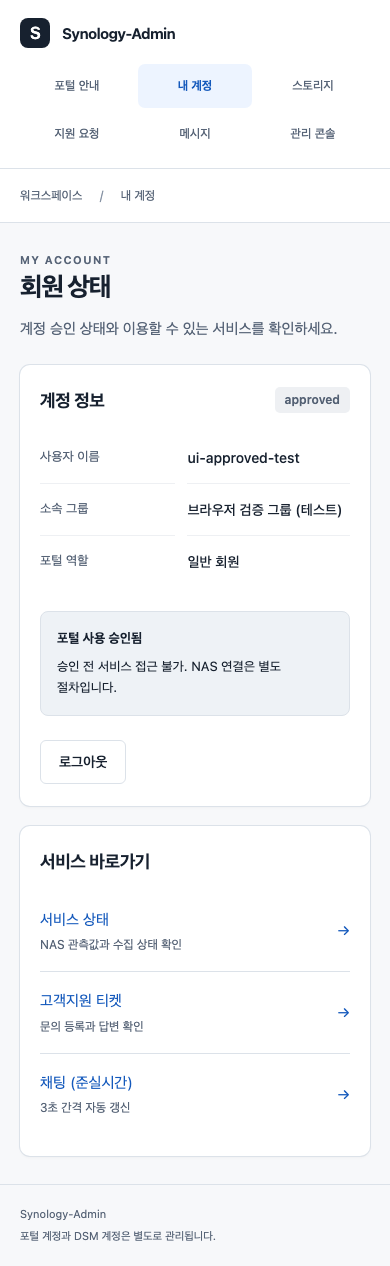
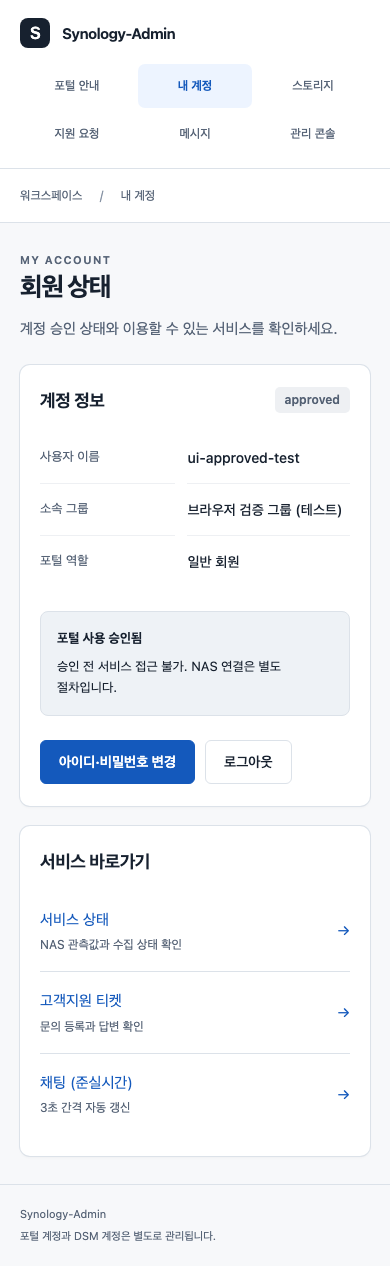
feat(ui): integrate merged account settings and credential browser flow

Changed region(s): [[0.0923, 0.5853, 0.5231, 0.6469], [0.5846, 0.5853, 0.7077, 0.6161]]

diff --git a/templates/membership/account.html b/templates/membership/account.html
@@ -7,6 +7,6 @@
 <div class="split"><section class="panel"><div class="panel-header"><h2>계정 정보</h2><span class="badge neutral">{% if member %}{{ member.status }}{% else %}회원 정보 없음{% endif %}</span></div>
 <dl class="data-list"><dt>사용자 이름</dt><dd>{{ member.user.username|default:'회원 정보 없음' }}</dd><dt>소속 그룹</dt><dd>{{ member.tenant.name|default:'미배정' }}</dd><dt>포털 역할</dt><dd>{% if member.role == 'admin' %}그룹관리자{% elif member %}일반 회원{% else %}회원 정보 없음{% endif %}</dd></dl>
 <div class="notice"><strong>{% if member.status == 'approved' %}포털 사용 승인됨{% elif member.status == 'pending' %}관리자 승인 대기 중{% else %}계정 상태를 확인하세요{% endif %}</strong><p>승인 전 서비스 접근 불가. NAS 연결은 별도 절차입니다.</p></div>
-<form method="post" action="/logout/">{% csrf_token %}<button class="secondary">로그아웃</button></form></section>
+<div class="actions"><a class="button" href="/account/settings/">아이디·비밀번호 변경</a><form method="post" action="/logout/">{% csrf_token %}<button class="secondary">로그아웃</button></form></div></section>
 <section class="panel"><h2>서비스 바로가기</h2><ul class="link-list"><li><a href="/service/"><span>서비스 상태<small>NAS 관측값과 수집 상태 확인</small></span><span aria-hidden="true">→</span></a></li><li><a href="/support/"><span>고객지원 티켓<small>문의 등록과 답변 확인</small></span><span aria-hidden="true">→</span></a></li><li><a href="/chat/"><span>채팅 (준실시간)<small>3초 간격 자동 갱신</small></span><span aria-hidden="true">→</span></a></li></ul></section></div>
 {% endblock %}

diff --git a/templates/membership/settings.html b/templates/membership/settings.html
@@ -1,1 +1,12 @@
-<!doctype html><html lang="ko"><head><meta charset="utf-8"><title>계정 설정</title></head><body><main><h1>아이디·비밀번호 변경</h1><p>변경하면 다른 기기의 로그인이 해제됩니다.</p><form method="post">{% csrf_token %}{{ form.as_p }}<button type="submit">변경 저장</button></form><a href="/account/">내 계정</a></main></body></html>
+{% extends "base.html" %}
+{% load i18n %}
+{% block title %}계정 설정{% endblock %}
+{% block nav_account %}aria-current="page"{% endblock %}
+{% block breadcrumb %}내 계정 / 설정{% endblock %}
+{% block content_class %}auth-layout{% endblock %}
+{% block content %}
+<div class="page-heading"><p class="eyebrow">ACCOUNT SETTINGS</p><h1>아이디·비밀번호 변경</h1><p>계정 정보를 변경하려면 현재 포털 비밀번호를 확인하세요.</p></div>
+<div class="notice"><strong>다른 기기의 로그인 해제</strong><p>변경하면 다른 기기의 로그인이 해제됩니다. DSM 계정 정보는 변경되지 않습니다.</p></div>
+<section class="panel auth-panel"><form method="post">{% csrf_token %}{% language "ko" %}{{ form.as_p }}{% endlanguage %}<div class="actions"><button type="submit">변경 저장</button><a class="button secondary" href="/account/">내 계정</a></div></form></section>
+<p class="supporting-text">아이디만 변경하려면 새 비밀번호 항목을 비워 두세요. 초기 관리자 계정은 새 비밀번호 설정이 필요합니다.</p>
+{% endblock %}

diff --git a/browser_tests/portal_ui.py b/browser_tests/portal_ui.py
@@ -74,6 +74,8 @@ class PortalUIBrowserTests(LiveServerTestCase):
                     'chat-empty': '/chat/', 'chat-list': '/chat/',
                     'mfa-enroll': '/mfa/enroll/', 'mfa-verify': '/mfa/enroll/',
                     'manage': '/manage/', 'mfa-challenge': '/mfa/verify/',
+                    'settings': '/account/settings/', 'settings-error': '/account/settings/',
+                    'settings-saved': '/account/settings/',
                 }
                 if name in expected_paths:
                     self.assertEqual(urlparse(page.url).path, expected_paths[name], name)
@@ -123,6 +125,26 @@ class PortalUIBrowserTests(LiveServerTestCase):
             page.locator('main button[type=submit]').click()
             page.wait_for_url('**/account/')
             capture('account-approved')
+            settings_link = page.get_by_role('link', name='아이디·비밀번호 변경', exact=True)
+            expect(settings_link).to_be_visible()
+            settings_link.click()
+            capture('settings')
+            page.locator('[name=username]').fill('ui-renamed-test')
+            page.locator('[name=new_password1]').fill('UI-replacement-test-only-839!')
+            page.locator('[name=new_password2]').fill('UI-mismatch-test-only-839!')
+            page.get_by_label('현재 비밀번호').fill(password)
+            page.get_by_role('button', name='변경 저장').click()
+            expect(page.locator('.errorlist')).to_contain_text('일치하지 않습니다')
+            capture('settings-error')
+            page.locator('[name=new_password1]').fill('UI-replacement-test-only-839!')
+            page.locator('[name=new_password2]').fill('UI-replacement-test-only-839!')
+            page.get_by_label('현재 비밀번호').fill(password)
+            with page.expect_navigation():
+                page.get_by_role('button', name='변경 저장').click()
+            expect(page.locator('[name=username]')).to_have_value('ui-renamed-test')
+            self.assertTrue(db_call(lambda: User.objects.get(pk=approved.pk).check_password('UI-replacement-test-only-839!')))
+            self.assertEqual(db_call(lambda: User.objects.get(pk=approved.pk).username), 'ui-renamed-test')
+            capture('settings-saved')
             page.goto(self.live_server_url + '/service/')
             capture('service')
             expect(page.locator('[data-usage=account] dd')).to_have_text(['알 수 없음', '알 수 없음', '알 수 없음', '설정 안 됨', '관측 없음', '출처 없음'])

diff --git a/docs/portal-ui.md b/docs/portal-ui.md
@@ -2,7 +2,7 @@
 
 ## 구현 범위
 
-- 기존 11개 페이지 템플릿을 실제 Django 공통 레이아웃으로 전환했다. 로그인과 가입은 같은 폼 템플릿을 사용한다.
+- 기존 11개 페이지와 PR #14의 계정 설정을 포함한 12개 페이지 템플릿을 실제 Django 공통 레이아웃으로 전환했다. 로그인과 가입은 같은 폼 템플릿을 사용한다.
 - 랜딩, 로그인/가입, 회원 상태, 스토리지, 회원/그룹 관리, OTP 등록/검증, 지원 목록/작성/상세, 채팅 목록/상세를 포함한다.
 - 주요 구성은 작업 중심 **Operate** 화면이다. Vercel 참조의 중립색·정밀한 간격 원칙만 차용하고, 자체 사이드바/헤더/작업 패널을 구성했다. 검증되지 않은 통계, 온라인 상태, 읽음 여부, NAS 관측값을 만들지 않는다.
 - 데스크톱 사이드바는 모바일에서 항상 보이는 2행 메뉴가 된다. 메뉴 토글 JavaScript가 필요 없다. 시스템 한글 글꼴을 의도적으로 사용하여 외부 폰트 요청을 없앴다.
@@ -12,13 +12,13 @@
 
 이 저장소는 `django.contrib.staticfiles` 또는 정적 파일 서버를 설정하지 않는다. 따라서 새 정적 URL을 가정하지 않고 `templates/ui/portal.css`를 `base.html`의 `<style>`에 템플릿 include한다. CSS는 저장소 안의 공통 자산이며 최종 HTML에 포함된다. 폰트/CDN/추적기/외부 이미지 요청이 없다. 기존 채팅 JS는 바이트 단위로 동일하고, 공통 레이아웃의 `scripts` 블록으로 이동했을 뿐이다.
 
-`Dockerfile`, Compose, Gunicorn 설정, LAN 바인딩, 모델/뷰/권한 코드는 변경하지 않았다. PR #13의 main `c0dc45af74b4c23a1e7190b095ff9ece94863a42`를 작업 브랜치에 통합했다. 원격 운영 서버에는 배포하지 않았다.
+`Dockerfile`, Compose, Gunicorn 설정, LAN 바인딩, 모델/뷰/권한 코드는 변경하지 않았다. PR #13의 main `c0dc45af74b4c23a1e7190b095ff9ece94863a42`와 PR #14의 `3dec8f0c60aa41234f3dbe3108f4e96b53aa0ede`를 작업 브랜치에 통합했다. 원격 운영 서버에는 배포하지 않았다.
 
 `.github/workflows/portal-ui.yml`은 기존 Dockerfile을 빌드한 뒤, 격리된 CI SQLite 테스트 볼륨과 루프백 포트에서 공개 3개 화면의 **실제 Chromium 계산 스타일**을 검증한다. 이는 운영 SQLite 승인이 아니다. 기존 PostgreSQL CI에는 인증된 전체 UI 시나리오를 추가했다. 컨테이너 배포 워크플로/Compose는 수정하지 않았다.
 
 ## 다른 계정 화면과의 통합 계약
 
-새 프로필/자격증명 화면은 다음 공통 인터페이스를 사용한다. 추가 엔드포인트를 이 PR에서 임의로 만들지 않았다.
+PR #14의 `/account/settings/` 화면을 같은 레이아웃에 통합하고 회원 상태에 링크를 추가했다. 실제 Chromium에서 비밀번호 불일치 오류, 아이디/비밀번호 변경, 저장된 DB 값과 계속 유지되는 세션을 확인했다. 모델/뷰는 PR #14 그대로이며 UI에서 추가 엔드포인트를 임의로 만들지 않았다. 이후 프로필 화면도 다음 공통 인터페이스를 사용할 수 있다.
 
 ```django
 {% extends "base.html" %}
@@ -47,7 +47,7 @@
 ## 검증 / 증거
 
 - `browser_tests/portal_ui.py`: 실제 HTTP와 Chromium에서 가입, 잘못된 로그인 오류, 정상 로그인, 대기/승인 계정, OTP 등록/검증, 지원 요청/답변, 채팅 송수신, 로그아웃 검증. 모든 계정과 내용은 폐기 가능한 테스트 데이터다.
-- 화면 19개 상태를 1440px/390px에서 각각 검사하고 38개 스크린샷을 생성한다. 가로 넘침, 레이블, 페이지 제목/주요 영역, 외부 요청, JS 오류를 검사한다. OTP seed/비밀번호/코드 입력은 캡처에서 마스킹한다.
+- 화면 22개 상태를 1440px/390px에서 각각 검사하고 44개 스크린샷을 생성한다. 가로 넘침, 레이블, 페이지 제목/주요 영역, 외부 요청, JS 오류를 검사한다. OTP seed/비밀번호/코드 입력은 캡처에서 마스킹한다.
 - `docs/evidence/ui-screenshots/manifest.json`: 파일별 목록과 코드로 계산한 개수.
 - `docs/evidence/ui-browser-final.txt`: 새 UI/기존 스토리지/기존 MFA 브라우저 검사 결과.
 - `docs/evidence/ui-regression-final.txt`: 전체 Django 회귀, 보안 설정, 마이그레이션, HTTP 검사.
@@ -73,6 +73,6 @@ python manage.py test browser_tests.portal_ui browser_tests.storage browser_test
 ## 남은 경계
 
 - 독립 리뷰와 최종 HEAD의 CI 확인은 별도 병합 게이트다. 구현자는 스스로 병합하지 않는다.
-- NAS/RustDesk 연결, 운영 계정 생성, 사용자 자격증명 변경 엔드포인트, 서버 배포는 이 UI PR의 범위가 아니다.
+- NAS/RustDesk 연결, 운영 계정 생성, 사용자 자격증명 변경의 백엔드 구현, 서버 배포는 이 UI PR의 범위가 아니다. 병합된 계정 설정 화면의 디자인/내비게이션/브라우저 검증만 통합했다.
 - 일부 기존 변경 실패 응답은 뷰가 반환하는 일반 400/403/409 응답이다. 이를 새 오류 화면/메시지 시스템으로 바꾸려면 별도 동작 변경과 테스트가 필요하다.
 - 실제 운영 사용자 비밀번호 없이 테스트 픽스처만 사용했다. 화면 테스트는 보조 접근성 검사이며 전체 스크린리더 인증을 주장하지 않는다.
